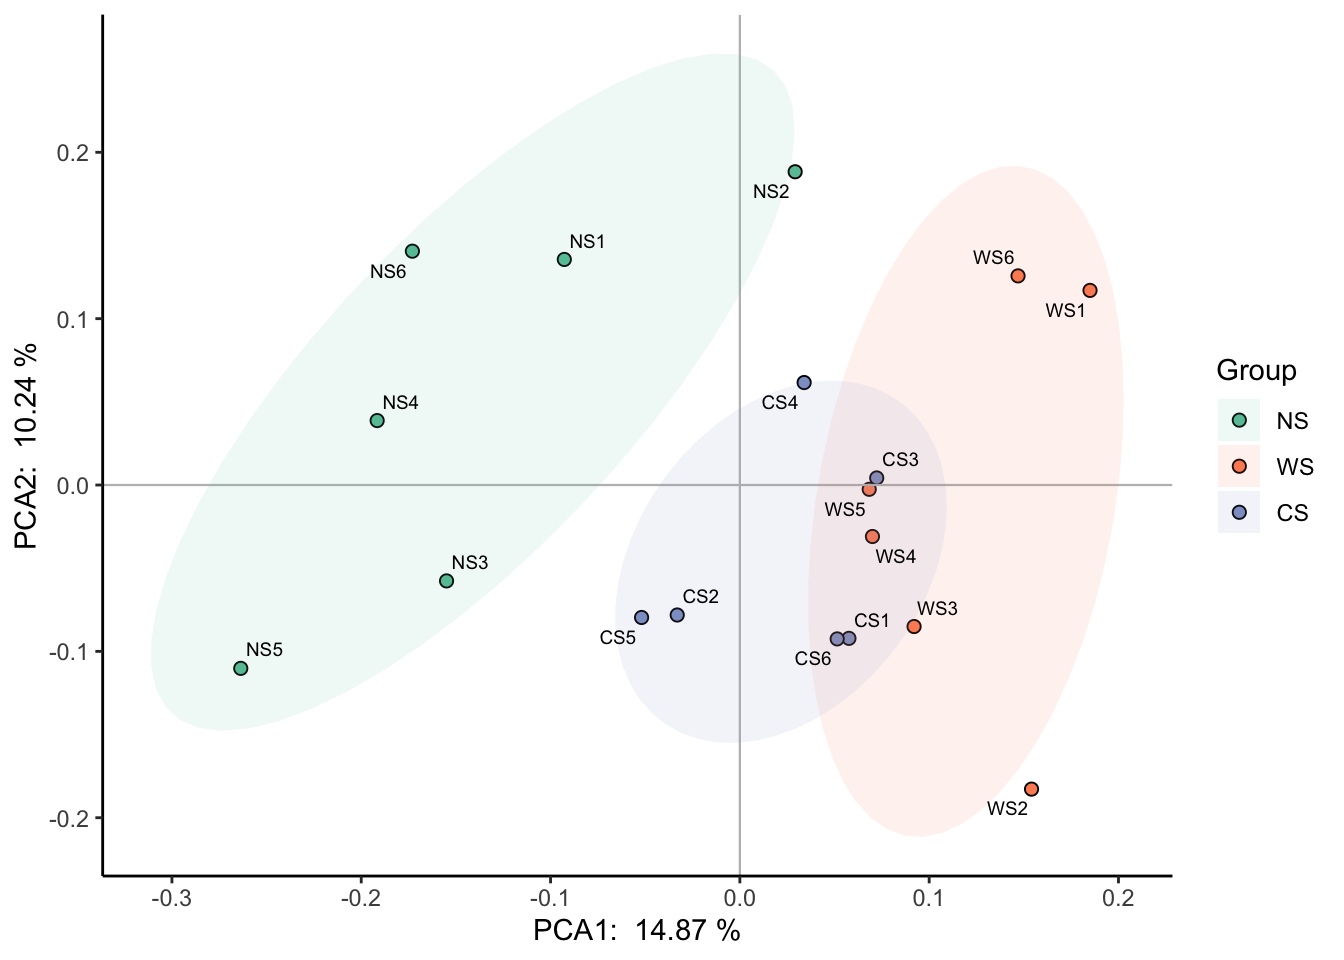
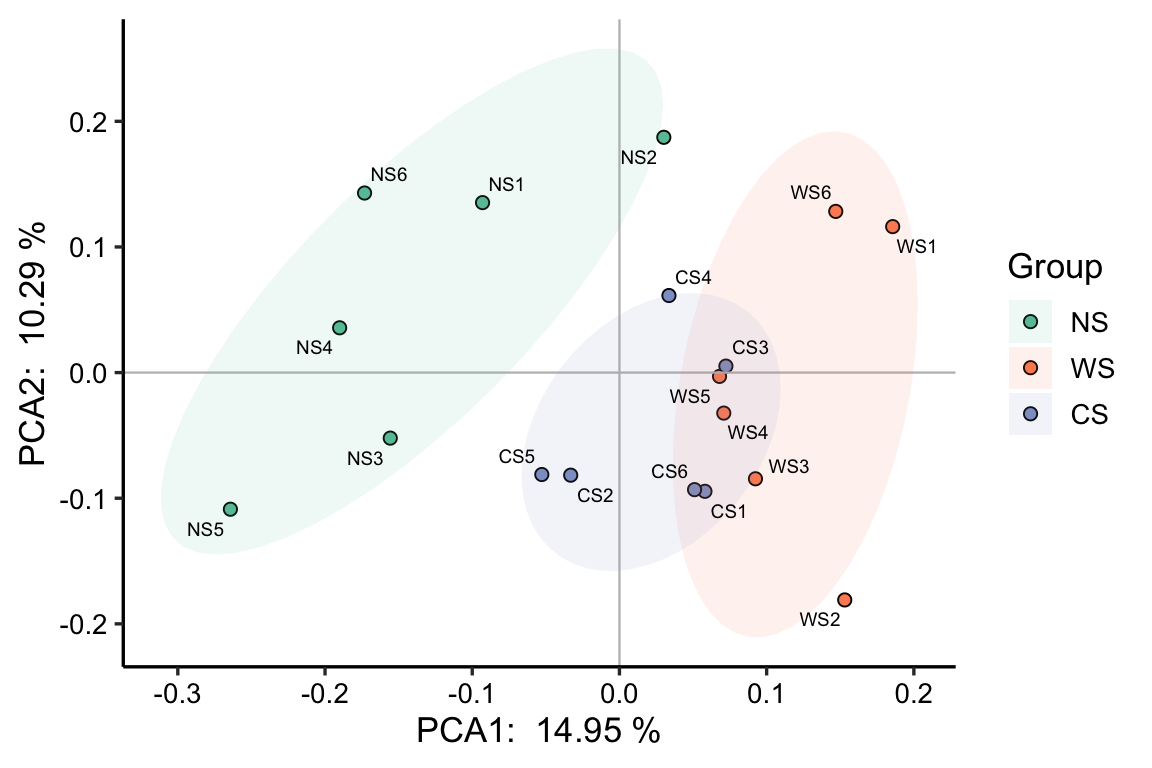
modified 2023-11-17-ordination-analysis

diff --git a/content/post/2023-11-17-ordination-analysis/index.en.md b/content/post/2023-11-17-ordination-analysis/index.en.md
@@ -356,9 +356,7 @@ b_analyse(otutab,method = "pca")->b_res
 plot(b_res,Group = "Group",metadata = metadata)
 ```
 
-    ## $PCA
-
-<img src="{{< blogdown/postref >}}index.en_files/figure-html/unnamed-chunk-4-1.png" width="672" />
+<img src="{{< blogdown/postref >}}index.en_files/figure-html/unnamed-chunk-4-1.png" width="576" />
 
 对于这种分组的显著性（怎么说明三组的群落组成存在显著差异？），具体有adonis/mrpp/anosim/mantel等方法（可参考<https://blog.csdn.net/qq_42830713/article/details/129073120>）,一般用vegan包的`adonis2`函数（又叫PERMANOVA，Permutational Multivariate Analysis of Variance Using Distance Matrices）来检验。
 
@@ -369,21 +367,28 @@ pctax::permanova(otutab,metadata["Group"],method = "adonis")
 ```
 
     ##   group     r2 p_value  sig
-    ## 1 Group 0.1832   0.001 TRUE
+    ## 1 Group 0.1843   0.001 TRUE
 
 ``` r
 pctax::permanova(otutab,metadata["Group"],method = "mrpp")
 ```
 
     ##   group      r p_value  sig
-    ## 1 Group 0.0375   0.002 TRUE
+    ## 1 Group 0.0382   0.001 TRUE
 
 ``` r
 pctax::permanova(otutab,metadata["Group"],method = "anosim")
 ```
 
     ##   group      r p_value  sig
-    ## 1 Group 0.3947   0.001 TRUE
+    ## 1 Group 0.3984   0.001 TRUE
+
+``` r
+adonis_res=pctax::permanova(otutab,metadata["Group"],method = "adonis")
+plot(b_res,Group = "Group",metadata = metadata,permanova_res = adonis_res)
+```
+
+<img src="{{< blogdown/postref >}}index.en_files/figure-html/unnamed-chunk-6-1.png" width="576" />
 
 也可以将连续变量映射到颜色上：
 
@@ -391,9 +396,7 @@ pctax::permanova(otutab,metadata["Group"],method = "anosim")
 plot(b_res,Group = "env1",metadata = metadata)
 ```
 
-    ## $PCA
-
-<img src="{{< blogdown/postref >}}index.en_files/figure-html/unnamed-chunk-6-1.png" width="672" />
+<img src="{{< blogdown/postref >}}index.en_files/figure-html/unnamed-chunk-7-1.png" width="576" />
 
 绘图有很多可以灵活调节的参数：
 
@@ -406,17 +409,16 @@ plot(b_res,Group = "Group",metadata = metadata,mode = 2)
 plot(b_res,Group = "Group",metadata = metadata,mode = 3)
 ```
 
-<img src="{{< blogdown/postref >}}index.en_files/figure-html/unnamed-chunk-8-1.png" width="1152" />
+<img src="{{< blogdown/postref >}}index.en_files/figure-html/unnamed-chunk-9-1.png" width="1152" />
 
 把bi设为true的话，会画出一部分贡献度最高的变量：
 
 ``` r
-plot(b_res,Group = "Group",metadata = metadata,bi = T,Topn = 10)
+plot(b_res,Group = "Group",metadata = metadata,bi = T,Topn = 10,
+     permanova_res = adonis_res,text_param = list(x=-0.3,y=-0.4))
 ```
 
-    ## $PCA
-
-<img src="{{< blogdown/postref >}}index.en_files/figure-html/unnamed-chunk-9-1.png" width="672" />
+<img src="{{< blogdown/postref >}}index.en_files/figure-html/unnamed-chunk-10-1.png" width="576" />
 
 margin 可以画出点的分布密度图或箱形图:
 
@@ -424,17 +426,13 @@ margin 可以画出点的分布密度图或箱形图:
 plot(b_res,Group = "Group",metadata = metadata,margin = T,mode = 3)
 ```
 
-    ## $PCA
-
-<img src="{{< blogdown/postref >}}index.en_files/figure-html/unnamed-chunk-10-1.png" width="672" />
+<img src="{{< blogdown/postref >}}index.en_files/figure-html/unnamed-chunk-11-1.png" width="576" />
 
 ``` r
-plot(b_res,Group = "Group",metadata = metadata,margin = T,box = F)
+plot.b_res(b_res,Group = "Group",metadata = metadata,margin = T,box_margin = F)
 ```
 
-    ## $PCA
-
-<img src="{{< blogdown/postref >}}index.en_files/figure-html/unnamed-chunk-10-2.png" width="672" />
+<img src="{{< blogdown/postref >}}index.en_files/figure-html/unnamed-chunk-11-2.png" width="576" />
 
 限制性排序则需要输入响应变量数据和我们要研究的环境数据：
 
@@ -447,38 +445,39 @@ env=metadata[,6:10]
 myRDA(otutab,env)->phy.rda
 ```
 
+    ## ==================================Check models================================== 
+    ## DCA analysis, select the sorting analysis model according to the first value of the Axis lengths row.
+    ## - If it is more than 4.0 - CCA (based on unimodal model, canonical correspondence analysis);
+    ## - If it is between 3.0-4.0 - both RDA/CCA;
+    ## - If it is less than 3.0 - RDA (based on linear model, redundancy analysis)
     ## 
     ## Call:
     ## vegan::decorana(veg = dat.h) 
     ## 
     ## Detrended correspondence analysis with 26 segments.
     ## Rescaling of axes with 4 iterations.
-    ## Total inertia (scaled Chi-square): 0.3207 
+    ## Total inertia (scaled Chi-square): 0.3192 
     ## 
-    ##                         DCA1    DCA2    DCA3    DCA4
-    ## Eigenvalues          0.03127 0.02265 0.01916 0.01729
-    ## Additive Eigenvalues 0.03127 0.02265 0.01917 0.01727
-    ## Decorana values      0.03150 0.02146 0.01701 0.01035
-    ## Axis lengths         0.74268 0.74498 0.57253 0.52361
+    ##                         DCA1    DCA2    DCA3     DCA4
+    ## Eigenvalues          0.03142 0.02276 0.01927 0.017818
+    ## Additive Eigenvalues 0.03142 0.02276 0.01927 0.017881
+    ## Decorana values      0.03169 0.02142 0.01511 0.009314
+    ## Axis lengths         0.73929 0.72605 0.52357 0.666913
     ## 
-    ## DCA analysis, select the sorting analysis model according to the first value of the Axis lengths row
-    ##    Axis Lengths >4.0-CCA (based on unimodal model, canonical correspondence analysis);
-    ##    If it is between 3.0-4.0 - both RDA/CCA;
-    ##    If less than 3.0-RDA (based on linear model, redundancy analysis)
-    ## [1] "===============Initial Model================"
-    ## [1] "Initial cca, vif>20 indicates serious collinearity:"
+    ## =================================Initial Model================================== 
+    ## Initial cca, vif>20 indicates serious collinearity:
     ##     env4     env5     env6      lat     long 
-    ## 2.671744 3.148860 1.161378 1.417139 1.120735 
-    ## Initial Model R-square: 0.05504835 
-    ## [1] "=============Statistics==========="
-    ## 0.3329753 Constrained indicates the degree to which environmental factors explain differences in community structure
-    ## 0.6670247 unconstrained means that the environmental factors cannot explain the part of the community structure
+    ## 2.574997 2.674671 1.252002 1.381839 1.211392 
+    ## Initial Model R-square: 0.04828743 
+    ## ===================================Statistics=================================== 
+    ## 0.3282029 constrained indicates the degree to which environmental factors explain differences in community structure
+    ## 0.6717971 unconstrained means that the environmental factors cannot explain the part of the community structure
 
 ``` r
 RDA_plot(phy.rda,"Group",metadata)
 ```
 
-<img src="{{< blogdown/postref >}}index.en_files/figure-html/unnamed-chunk-11-1.png" width="672" />
+<img src="{{< blogdown/postref >}}index.en_files/figure-html/unnamed-chunk-12-1.png" width="576" />
 
 对于这里每一个环境因素的检验，我们仍然可以使用adonis，或者envfit，bioenv等检验方式：
 
@@ -487,13 +486,13 @@ adonis_res=pctax::permanova(otutab,env,method = "adonis")
 plot(adonis_res)
 ```
 
-<img src="{{< blogdown/postref >}}index.en_files/figure-html/unnamed-chunk-12-1.png" width="672" />
+<img src="{{< blogdown/postref >}}index.en_files/figure-html/unnamed-chunk-13-1.png" width="576" />
 
 ``` r
 envfit_res=pctax::envfitt(phy.rda,env)
 plot(envfit_res,mode=1)
 ```
 
-<img src="{{< blogdown/postref >}}index.en_files/figure-html/unnamed-chunk-12-2.png" width="672" />
+<img src="{{< blogdown/postref >}}index.en_files/figure-html/unnamed-chunk-13-2.png" width="576" />
 
 限制性排序比较复杂，如果输入的环境因素较多具有共线性，还应该对得到的结果使用`ordistep`进行forward，backward，both等方式的筛选，得到最合适的模型。
